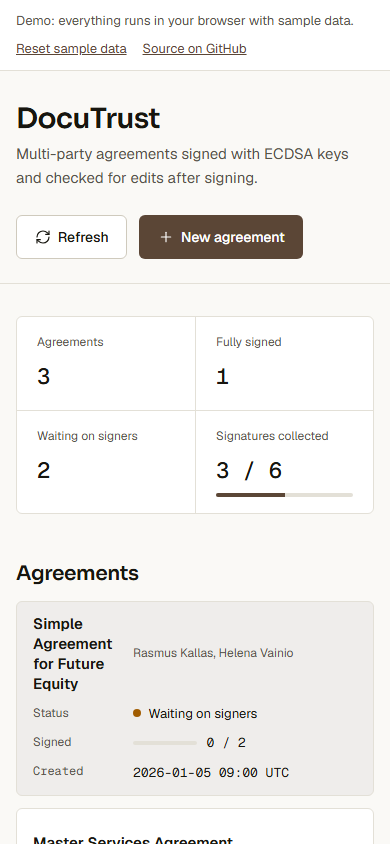
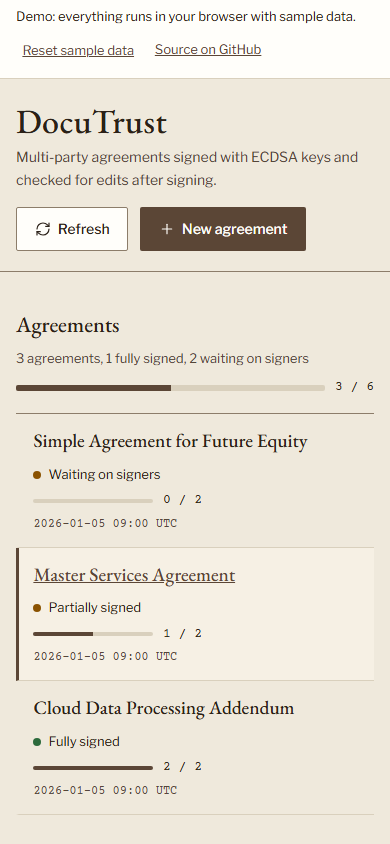
Describe the sheet layout in the README and changelog and refresh the screenshots

diff --git a/client/src/App.css b/client/src/App.css
@@ -387,7 +387,7 @@ textarea {
 .sheet-text {
   font-family: var(--font-heading);
   font-size: 19px;
-  line-height: 1.7;
+  line-height: 1.55;
   white-space: pre-wrap;
   overflow-wrap: anywhere;
 }

diff --git a/README.md b/README.md
@@ -12,9 +12,9 @@ The demo runs entirely in your browser. The same canonical hashing and validatio
 
 ## Screenshots
 
-![Dashboard with the stats strip and the agreements table](docs/screenshots/01-dashboard.png)
+![An agreement open as a white sheet on a parchment desk, with a slim agreements list on the left and signature blocks in the right margin](docs/screenshots/01-dashboard.png)
 
-More screenshots: [an agreement with its signers](docs/screenshots/02-agreement.png), [the tamper tester beside a broken-seal result](docs/screenshots/03-tamper.png), [the dashboard at phone width](docs/screenshots/04-mobile.png).
+More screenshots: [the full page with the tamper tester and audit trail under the sheet](docs/screenshots/02-agreement.png), [a broken-seal result after an edit without re-signing](docs/screenshots/03-tamper.png), [the dashboard at phone width](docs/screenshots/04-mobile.png).
 
 ## What it is for
 
@@ -27,7 +27,7 @@ Teams that need several people to approve a document and want a record of who si
 - Verify an agreement at any time. Verification re-hashes the current title and text and checks each stored signature against that hash.
 - Tamper tester: writes a new title or text straight into storage without re-signing, then re-verifies.
 - Audit trail of creation, signing, verification and tamper events, with truncated hashes and the full value on hover.
-- Agreements table, stats strip and signer list with key fingerprints and signature values.
+- The open agreement reads as a sheet on a desk: a slim agreements list on the left, signature blocks and the verification result in a margin column on the right, with key fingerprints and signature values in monospace.
 - Static demo build for GitHub Pages with sample data and a reset control.
 
 ## Getting started
@@ -93,7 +93,7 @@ What this covers: a change to the stored title or text after signing is detected
 
 ```
 client/            React dashboard (Vite)
-  src/components/    table, detail view, integrity panel, dialogs
+  src/components/    agreements list, sheet view, tamper tester and result, dialogs
   src/services/      API client, demo adapter, Web Crypto helpers
   src/styles/        design tokens
 shared/            Code used by both server and demo: canonical text, validation, errors, types
@@ -129,7 +129,7 @@ Invalid input returns 400, unknown ids 404, a repeated signature 409, and non-JS
 npm test
 ```
 
-Server tests (Vitest and Supertest) cover key generation, canonical hashing, sign and verify for both key types, the full create, sign and verify flow, tamper detection on title and text, validation limits and error responses, all against an in-memory database. Client tests (React Testing Library) cover the table, create and sign dialogs, the tamper tester and the verification result, plus the demo data layer and Web Crypto helpers. No test uses real timers or sleeps.
+Server tests (Vitest and Supertest) cover key generation, canonical hashing, sign and verify for both key types, the full create, sign and verify flow, tamper detection on title and text, validation limits and error responses, all against an in-memory database. Client tests (React Testing Library) cover the agreements list, create and sign dialogs, the tamper tester and the verification result, plus the demo data layer and Web Crypto helpers. No test uses real timers or sleeps.
 
 ## Deployment
 

diff --git a/CHANGELOG.md b/CHANGELOG.md
@@ -4,6 +4,11 @@ All notable changes to this project are documented in this file.
 
 The format is based on [Keep a Changelog](https://keepachangelog.com/en/1.1.0/).
 
+## [Unreleased]
+
+### Changed
+- New visual identity built around paper and ink: a parchment desk, the open agreement shown as a white sheet in a serif face, and a margin column on the right holding signature blocks and the verification result. Agreements now sit in a slim list on the left, the tamper tester and audit trail sit under the sheet, and hashes and signatures are set in a typewriter face. The overview strip and table are gone; a one-line tally replaces them. Behavior and features are unchanged.
+
 ## [1.0.0] - 2026-10-02
 
 ### Added
